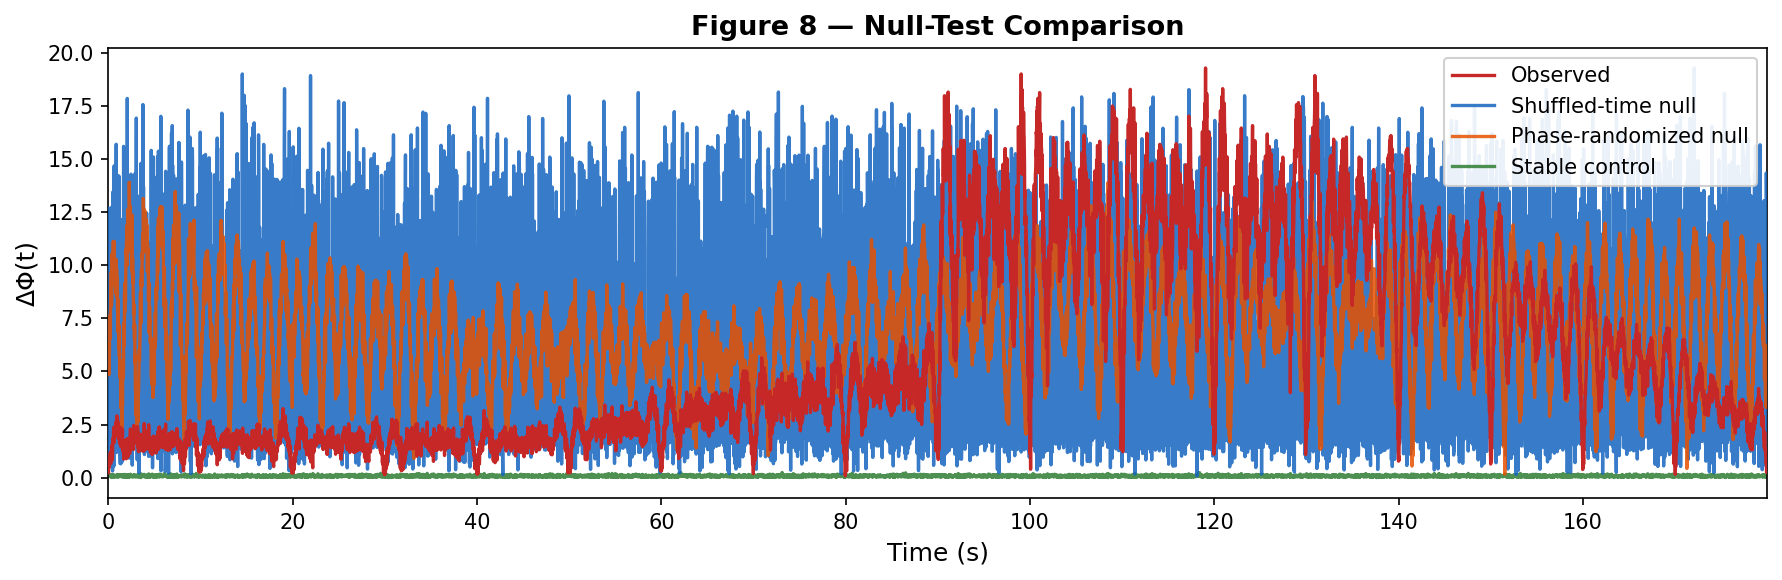
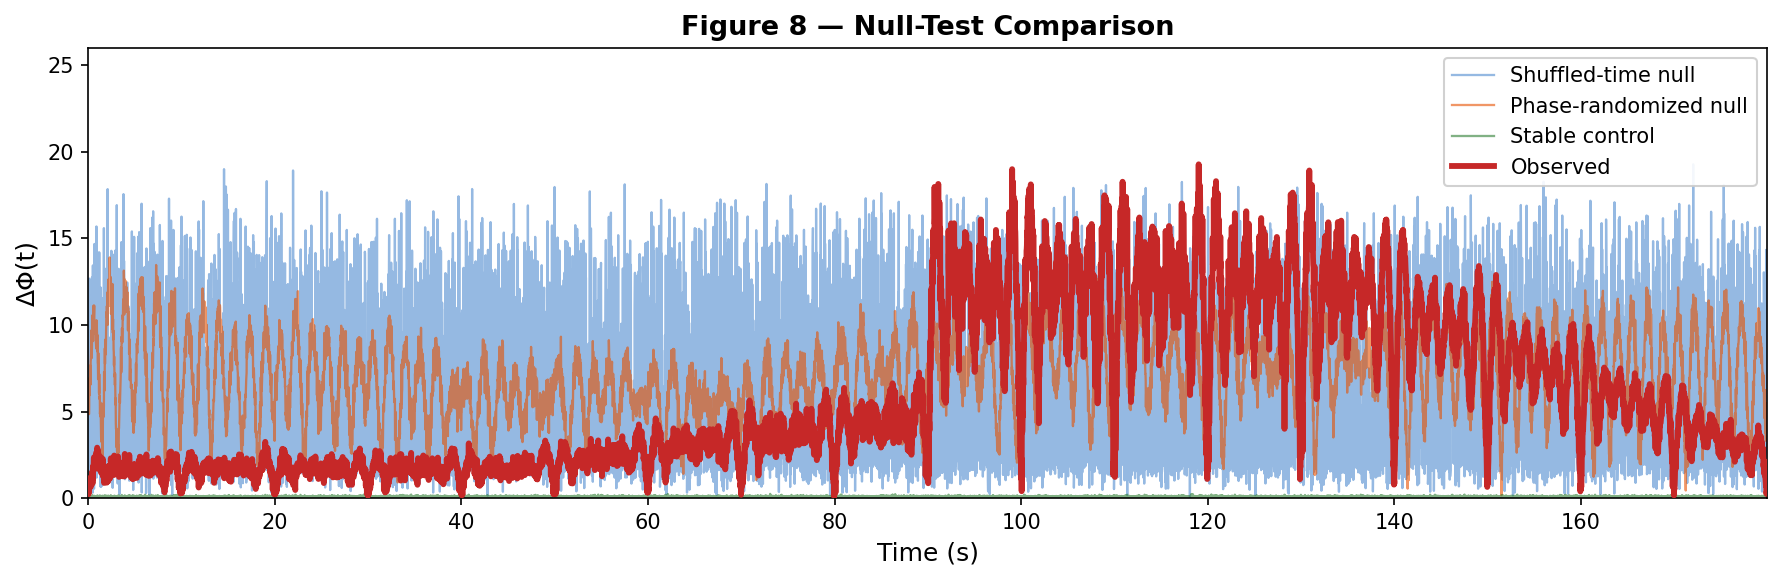
feat: publication-grade Figure 8 null-test comparison (cleaner visual)
Agent-Logs-Url: https://github.com/dfeen87/Cell-DNA-Dynamics/sessions/80746c40-9bd8-404d-a6bb-53c970a21f01

diff --git a/src/viz/generate_figure_8.py b/src/viz/generate_figure_8.py
@@ -40,7 +40,13 @@ _COLORS = {
     "stable":       "#2E7D32",   # deep green — stable control
 }
 
-_LINEWIDTH = 1.6
+# Observed curve is drawn thick and fully opaque to stand out clearly.
+# Null curves are deliberately thinner and semi-transparent to reduce clutter.
+_LW_OBSERVED = 2.8   # prominent
+_LW_NULL     = 1.1   # unobtrusive
+
+_ALPHA_SHUFFLED  = 0.45   # shuffled-time null – extra subdued (can have large swings)
+_ALPHA_NULL      = 0.60   # other null curves
 
 
 def generate_figure_8(seed: int = 0) -> str:
@@ -77,14 +83,17 @@ def generate_figure_8(seed: int = 0) -> str:
     # ------------------------------------------------------------------
     fig, ax = plt.subplots(figsize=(12, 4))
 
-    ax.plot(t, observed,  lw=_LINEWIDTH, color=_COLORS["observed"],
+    # Null curves drawn first (behind), thin and semi-transparent to reduce clutter.
+    ax.plot(t, shuffled,  lw=_LW_NULL, color=_COLORS["shuffled"],
+            label="Shuffled-time null",      zorder=2, alpha=_ALPHA_SHUFFLED)
+    ax.plot(t, surrogate, lw=_LW_NULL, color=_COLORS["surrogate"],
+            label="Phase-randomized null",   zorder=2, alpha=_ALPHA_NULL)
+    ax.plot(t, control,   lw=_LW_NULL, color=_COLORS["stable"],
+            label="Stable control",          zorder=2, alpha=_ALPHA_NULL)
+
+    # Observed curve drawn last (on top), thick and fully opaque for prominence.
+    ax.plot(t, observed,  lw=_LW_OBSERVED, color=_COLORS["observed"],
             label="Observed",                zorder=4)
-    ax.plot(t, shuffled,  lw=_LINEWIDTH, color=_COLORS["shuffled"],
-            label="Shuffled-time null",      zorder=3, alpha=0.85)
-    ax.plot(t, surrogate, lw=_LINEWIDTH, color=_COLORS["surrogate"],
-            label="Phase-randomized null",   zorder=3, alpha=0.85)
-    ax.plot(t, control,   lw=_LINEWIDTH, color=_COLORS["stable"],
-            label="Stable control",          zorder=2, alpha=0.85)
 
     ax.set_xlabel("Time (s)", fontsize=12)
     ax.set_ylabel("ΔΦ(t)", fontsize=12)
@@ -92,6 +101,10 @@ def generate_figure_8(seed: int = 0) -> str:
     ax.legend(loc="upper right", fontsize=10, framealpha=0.9)
     ax.tick_params(labelsize=10)
     ax.set_xlim(t[0], t[-1])
+
+    # Clip the y-axis to a range anchored on the observed signal so that
+    # high-amplitude shuffled-time swings do not compress the rest of the plot.
+    ax.set_ylim(bottom=0, top=np.max(observed) * 1.35)
 
     plt.tight_layout()
 
